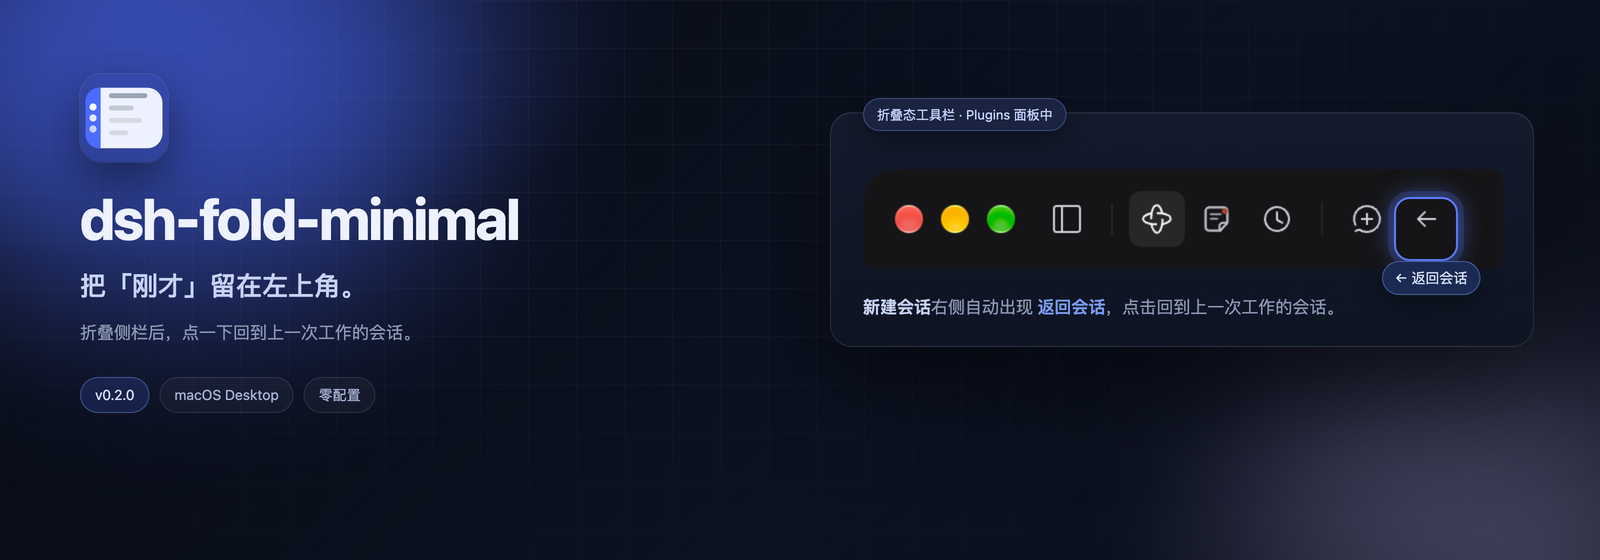
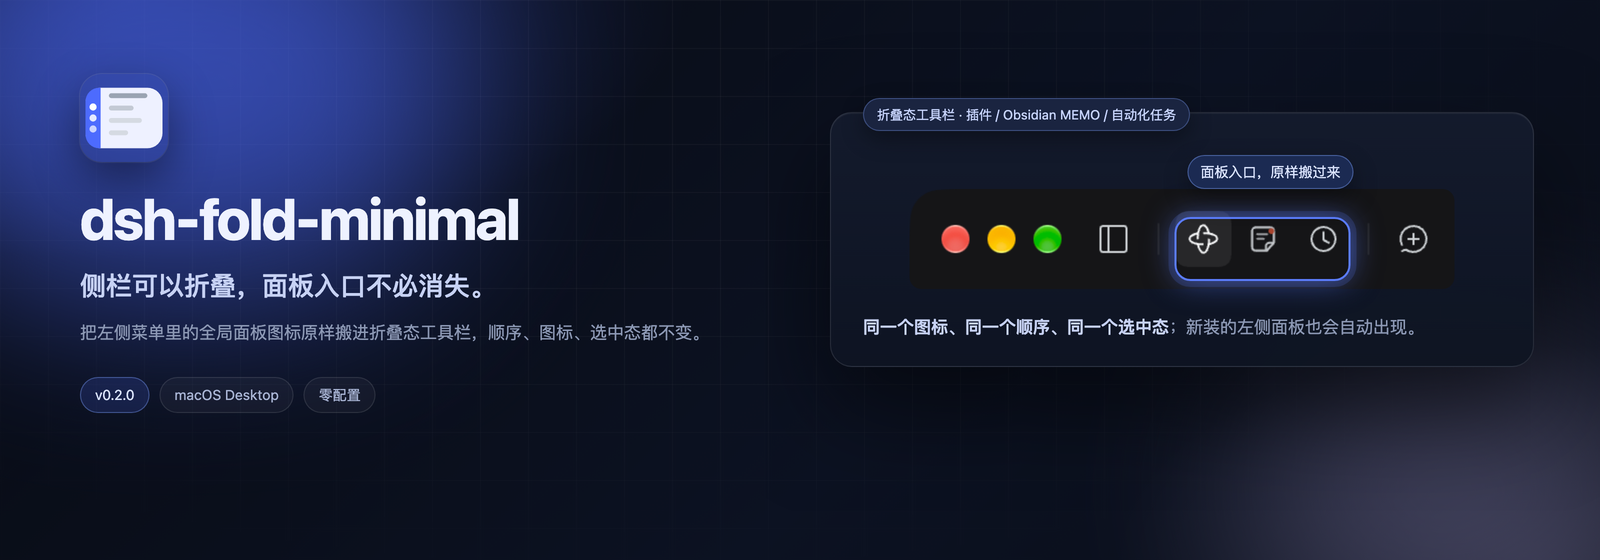
docs: recenter README on panel mapping; back button as a small bonus

diff --git a/README.md b/README.md
@@ -1,5 +1,5 @@
 <p align="center">
-  <img src="assets/banner.png" alt="dsh-fold-minimal：把「刚才」留在左上角" width="100%">
+  <img src="assets/banner.png" alt="dsh-fold-minimal：侧栏可以折叠，面板入口不必消失" width="100%">
 </p>
 
 <p align="center">
@@ -9,55 +9,71 @@
 </p>
 
 <p align="center">
-  <b>把「刚才」留在左上角。</b><br>
-  <sub>折叠侧栏后，点一下回到上一次工作的会话。一个很小、很轻、不打扰的 DSH 插件。</sub>
+  <b>侧栏可以折叠，面板入口不必消失。</b><br>
+  <sub>把左侧菜单里的全局面板图标原样搬进折叠态工具栏。同一个图标、同一个顺序、同一个选中态。</sub>
 </p>
 
 ---
 
-## 只解决一个小问题
+## 它真正解决的问题
 
-DSH 折叠左侧栏后，左上角只剩「展开」和「新建会话」。
+DSH 折叠左侧栏后，左上角只剩「展开」和「新建会话」。插件、自动化任务、Obsidian MEMO 这些全局面板入口，全都留在展开态。
 
-想从插件面板回到刚才的会话，得先展开侧栏，再在会话列表里找到它。两步不多，但足够打断一次心流。
+想用面板，得先展开；切回会话，又得再展开。两步不多，但足够打断一次心流。
 
-**dsh-fold-minimal 只做一件事：把「回去」留在左上角。**
+**dsh-fold-minimal 把左侧菜单里的全局面板图标直接搬进折叠态工具栏。**
 
-折叠态工具栏直接显示左侧所有全局面板图标，顺序和展开态完全一致；打开任意面板时，「新建会话」右侧会多出一个 **← 返回会话**。点一下，回到刚才的工作会话。
+不是重做一套入口，而是同一个图标、同一个顺序、同一个选中态。折叠侧栏之后，你依然可以一键切面板。
+
+<p align="center">
+  <img src="assets/mapping.png" alt="展开态左侧菜单与折叠态工具栏的图标映射" width="100%">
+</p>
+
+<p align="center">
+  <sub>左侧有什么，折叠后还是什么。</sub>
+</p>
+
+## 真实界面
 
 <p align="center">
   <img src="assets/hero.png" alt="折叠侧栏 + Plugins 面板中的真实界面" width="100%">
 </p>
 
 <p align="center">
-  <sub>真实界面截图：折叠侧栏 + Plugins 面板。左上角工具栏里，← 返回会话已经就位。</sub>
+  <sub>折叠侧栏 + Plugins 面板。左上角工具栏里是左侧菜单的面板图标；最右边的小箭头，是 v0.2 顺手加的「返回会话」。</sub>
 </p>
 
-## 轻到几乎不存在
+## 轻量，不打扰
 
-它不新增侧栏，不新增设置页，不新增快捷键，也不改变 DSH 的任何默认行为。
+它不试图替代 DSH 的侧栏，也不重排你的工作区。折叠时，它只是把左侧那一列面板入口，换成左上角的一行图标。
 
-- **只加一个按钮** — 28px，会话中自动隐藏，不占位。
-- **只在需要时出现** — 在会话里看不到它；在全局面板里它才出现。
-- **不改展开态** — 展开后的侧栏与 DSH 原样一致，不做任何重排。
-- **不改你的会话** — 返回只是切回主区域保留的上一次会话，不重新加载历史、不重新排序。
-- **没有设置** — 装好即用；停用 / 卸载立刻回退官方按钮，不需要重启。
+- 不新增侧栏、不新增设置页、不新增快捷键。
+- 只在 macOS 桌面折叠态出现；展开态保持 DSH 原样。
+- 只多一行图标；当前面板的选中态跟着左侧菜单走。
+- 停用 / 卸载立刻回退官方按钮，不需要重启。
+
+## 顺手的小心思：返回会话
+
+v0.2 在全局面板里加了一个小按钮：**新建会话**右侧出现 **←**，点一下回到刚才的会话；回到会话后它自动隐藏。
+
+它不是这个插件的重点。只是既然「切面板」已经变简单了，就把「从面板回会话」也少一步。
 
 <p align="center">
   <img src="assets/states.png" alt="在会话中返回按钮隐藏；在全局面板中返回按钮出现" width="100%">
 </p>
 
 <p align="center">
-  <sub>同一根工具栏，两种状态。返回目标是你离开前正在看的那个会话。</sub>
+  <sub>同一根工具栏，两种状态。返回按钮只在全局面板中出现。</sub>
 </p>
 
 ## 功能一览
 
 | | |
 |---|---|
-| 🧩 **面板图标一个不少** | 插件、自动化任务、Obsidian MEMO……新装的左侧面板会自动出现在折叠态工具栏。 |
-| ↕ **顺序就是左侧顺序** | 与展开态左侧主菜单完全一致；当前面板的图标会显示选中底色。 |
-| ← **一键回到刚才** | 在任意全局面板中，点一下「返回会话」就回到刚才的工作。 |
+| 🧩 **面板入口一个不少** | 插件、自动化任务、Obsidian MEMO……新装的左侧面板会自动出现在折叠态工具栏。 |
+| ↕ **顺序就是左侧顺序** | 与展开态左侧主菜单完全一致。 |
+| 🔵 **选中态同步** | 当前面板的图标会显示选中底色，点击即切面板。 |
+| 🪶 **轻量** | 只多一行图标，不改展开态，不改变 DSH 的任何默认行为。 |
 
 ## 安装
 
@@ -83,12 +99,13 @@ plugin_manager install_bundle --target link:/path/to/dsh-fold-minimal
 
 1. 折叠左侧栏。
 2. 左上角出现 **展开 │ 面板图标 │ 新建会话** 工具栏。
-3. 点开任意全局面板。
-4. **新建会话**右侧出现 **←**；点击回到刚才的会话，按钮自动隐藏。
+3. 点任意面板图标，直接切换面板；当前面板的图标会高亮。
+4. 在全局面板里，**新建会话**右侧还会出现 **←**；点击回到刚才的会话。
 
 ## 兼容与边界
 
 - 只影响 macOS 桌面的折叠态；展开态、Windows / Linux 的窄侧栏轨道保持原样。
+- 折叠态显示所有已注册的 `sidebar.panellist` 面板（包含未固定的条目）；「更多」菜单里的动作不在折叠态提供。
 - 返回目标是主区域保留的上一次工作会话（空白新会话草稿也算），不做「最近会话」排序。
 - 面板很多或窗口很窄时，工具栏不横向滚动，超出部分会被窗口裁掉。
 - 某个插件的图标不兼容时，会退化成兜底图标，不影响整条工具栏。
@@ -97,12 +114,12 @@ plugin_manager install_bundle --target link:/path/to/dsh-fold-minimal
 
 ### v0.2.0 · 2026-11-05
 
-- 新增「返回会话」按钮：在全局面板中出现在「新建会话」后，一键回到上一次工作的会话；已在会话中时隐藏。
-- README 升级为产品介绍页。
+- 新增「返回会话」小按钮：在全局面板中出现，点击回到上一次工作的会话；已在会话中时隐藏。
 
 ### v0.1.0 · 2026-11-04
 
 - 折叠态工具栏按左侧菜单顺序映射全局面板图标。
+- 选中态同步、标题让位、插件图标自动跟随。
 
 <details>
 <summary>技术细节 / 开发</summary>
